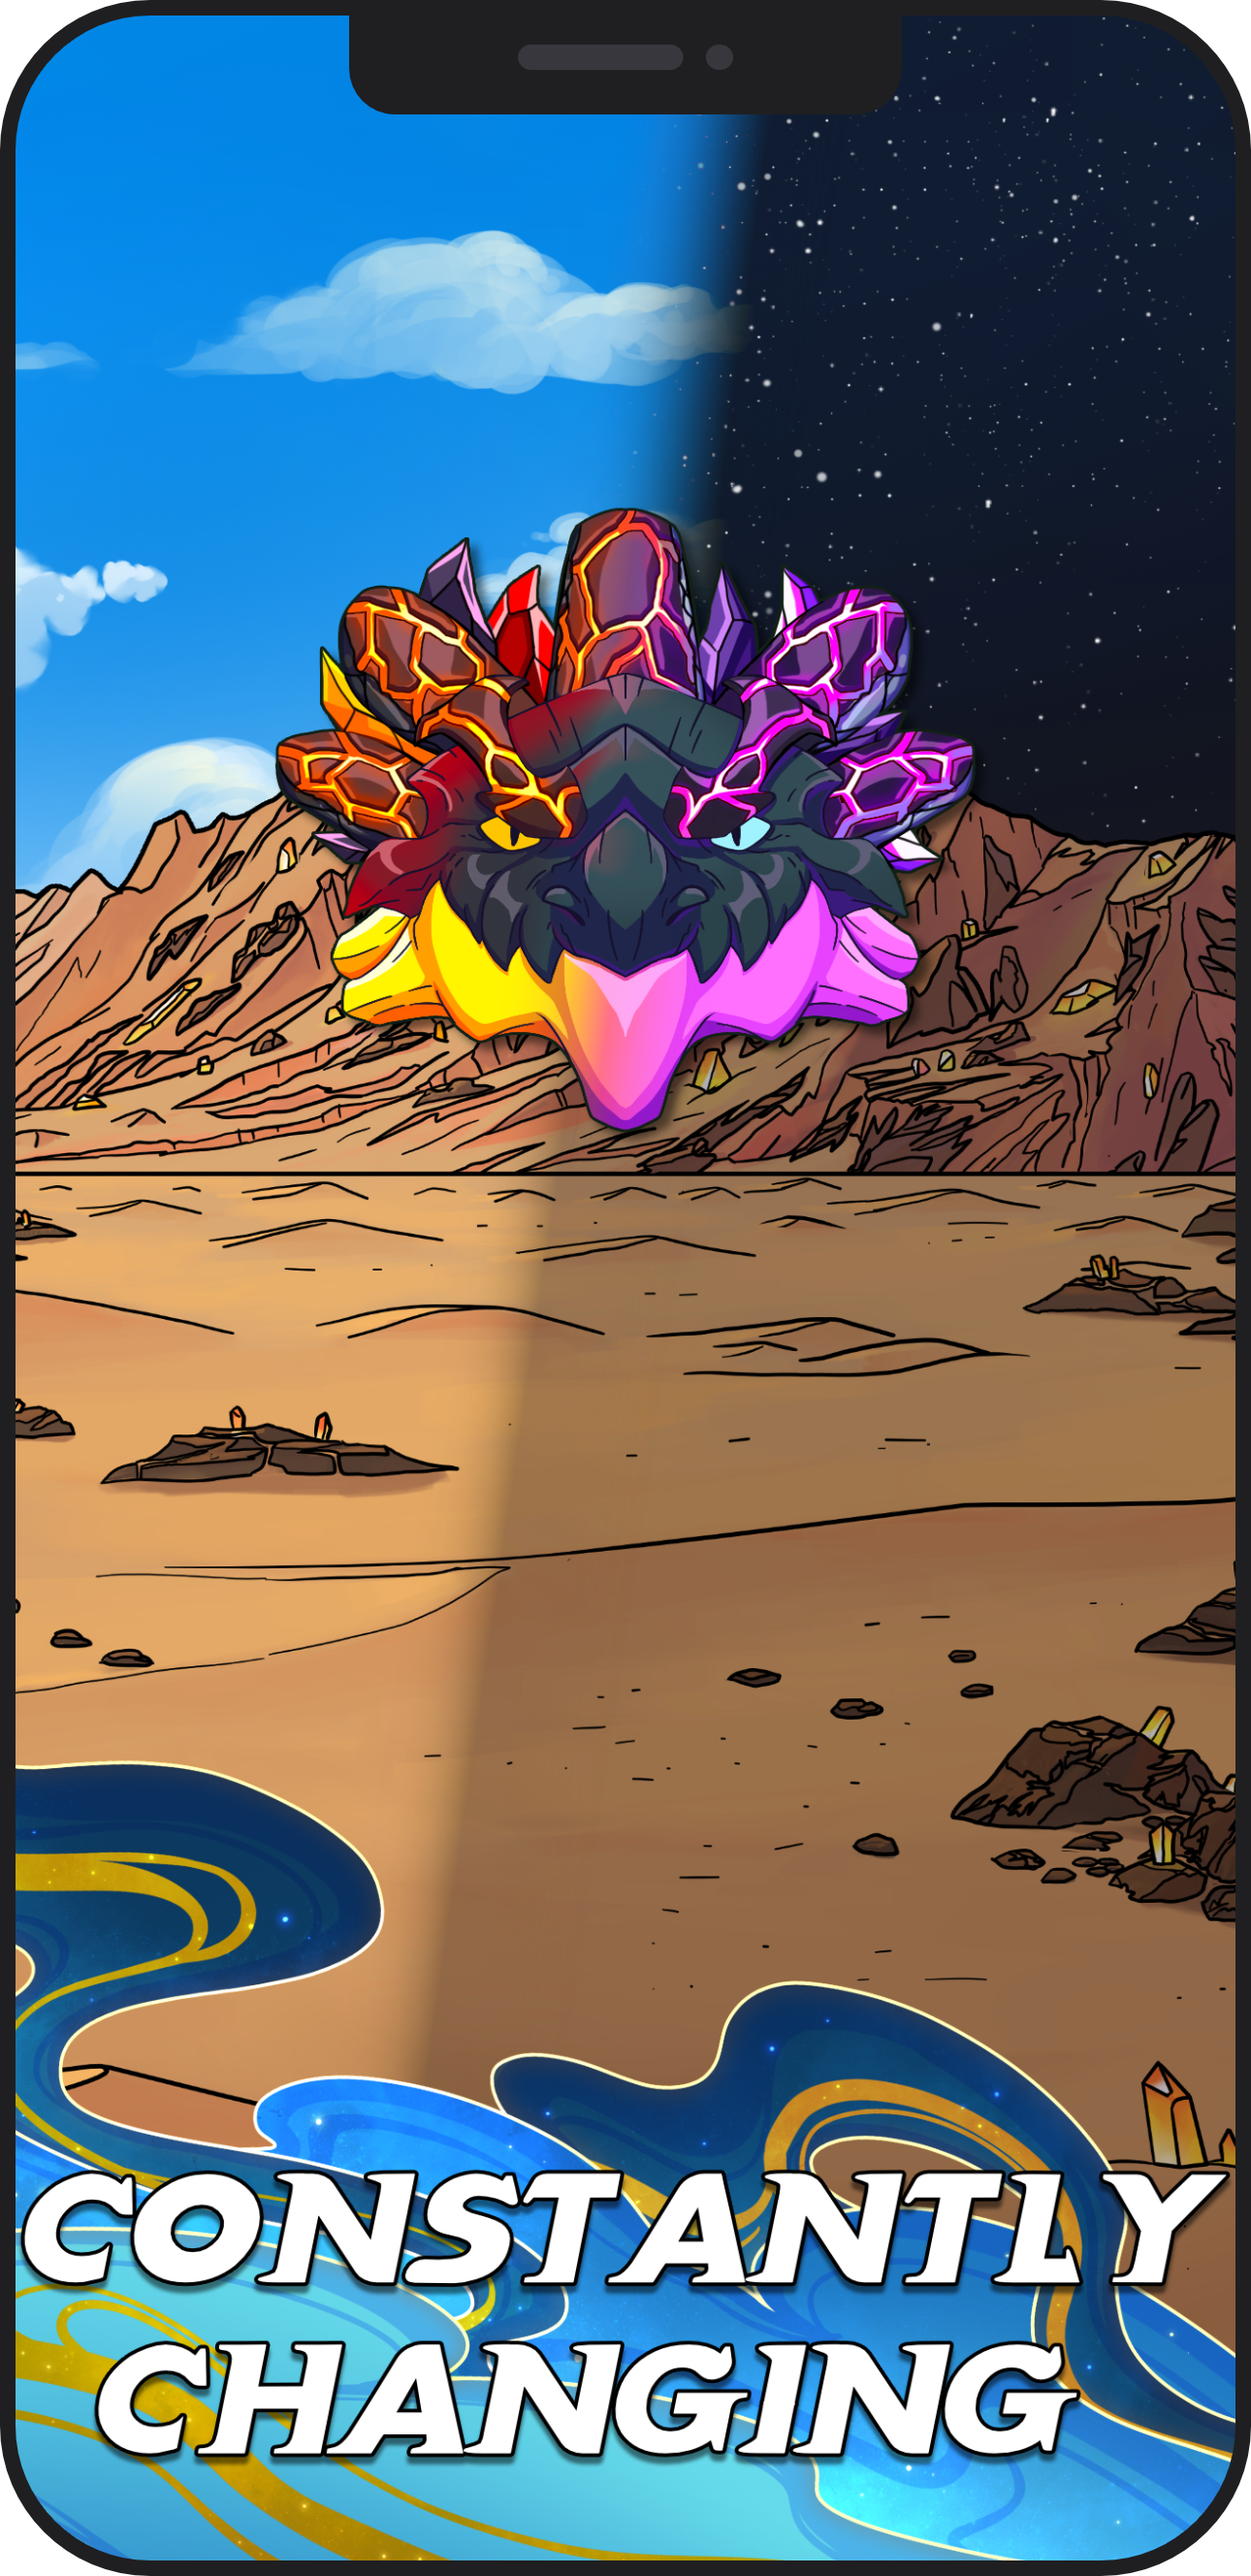
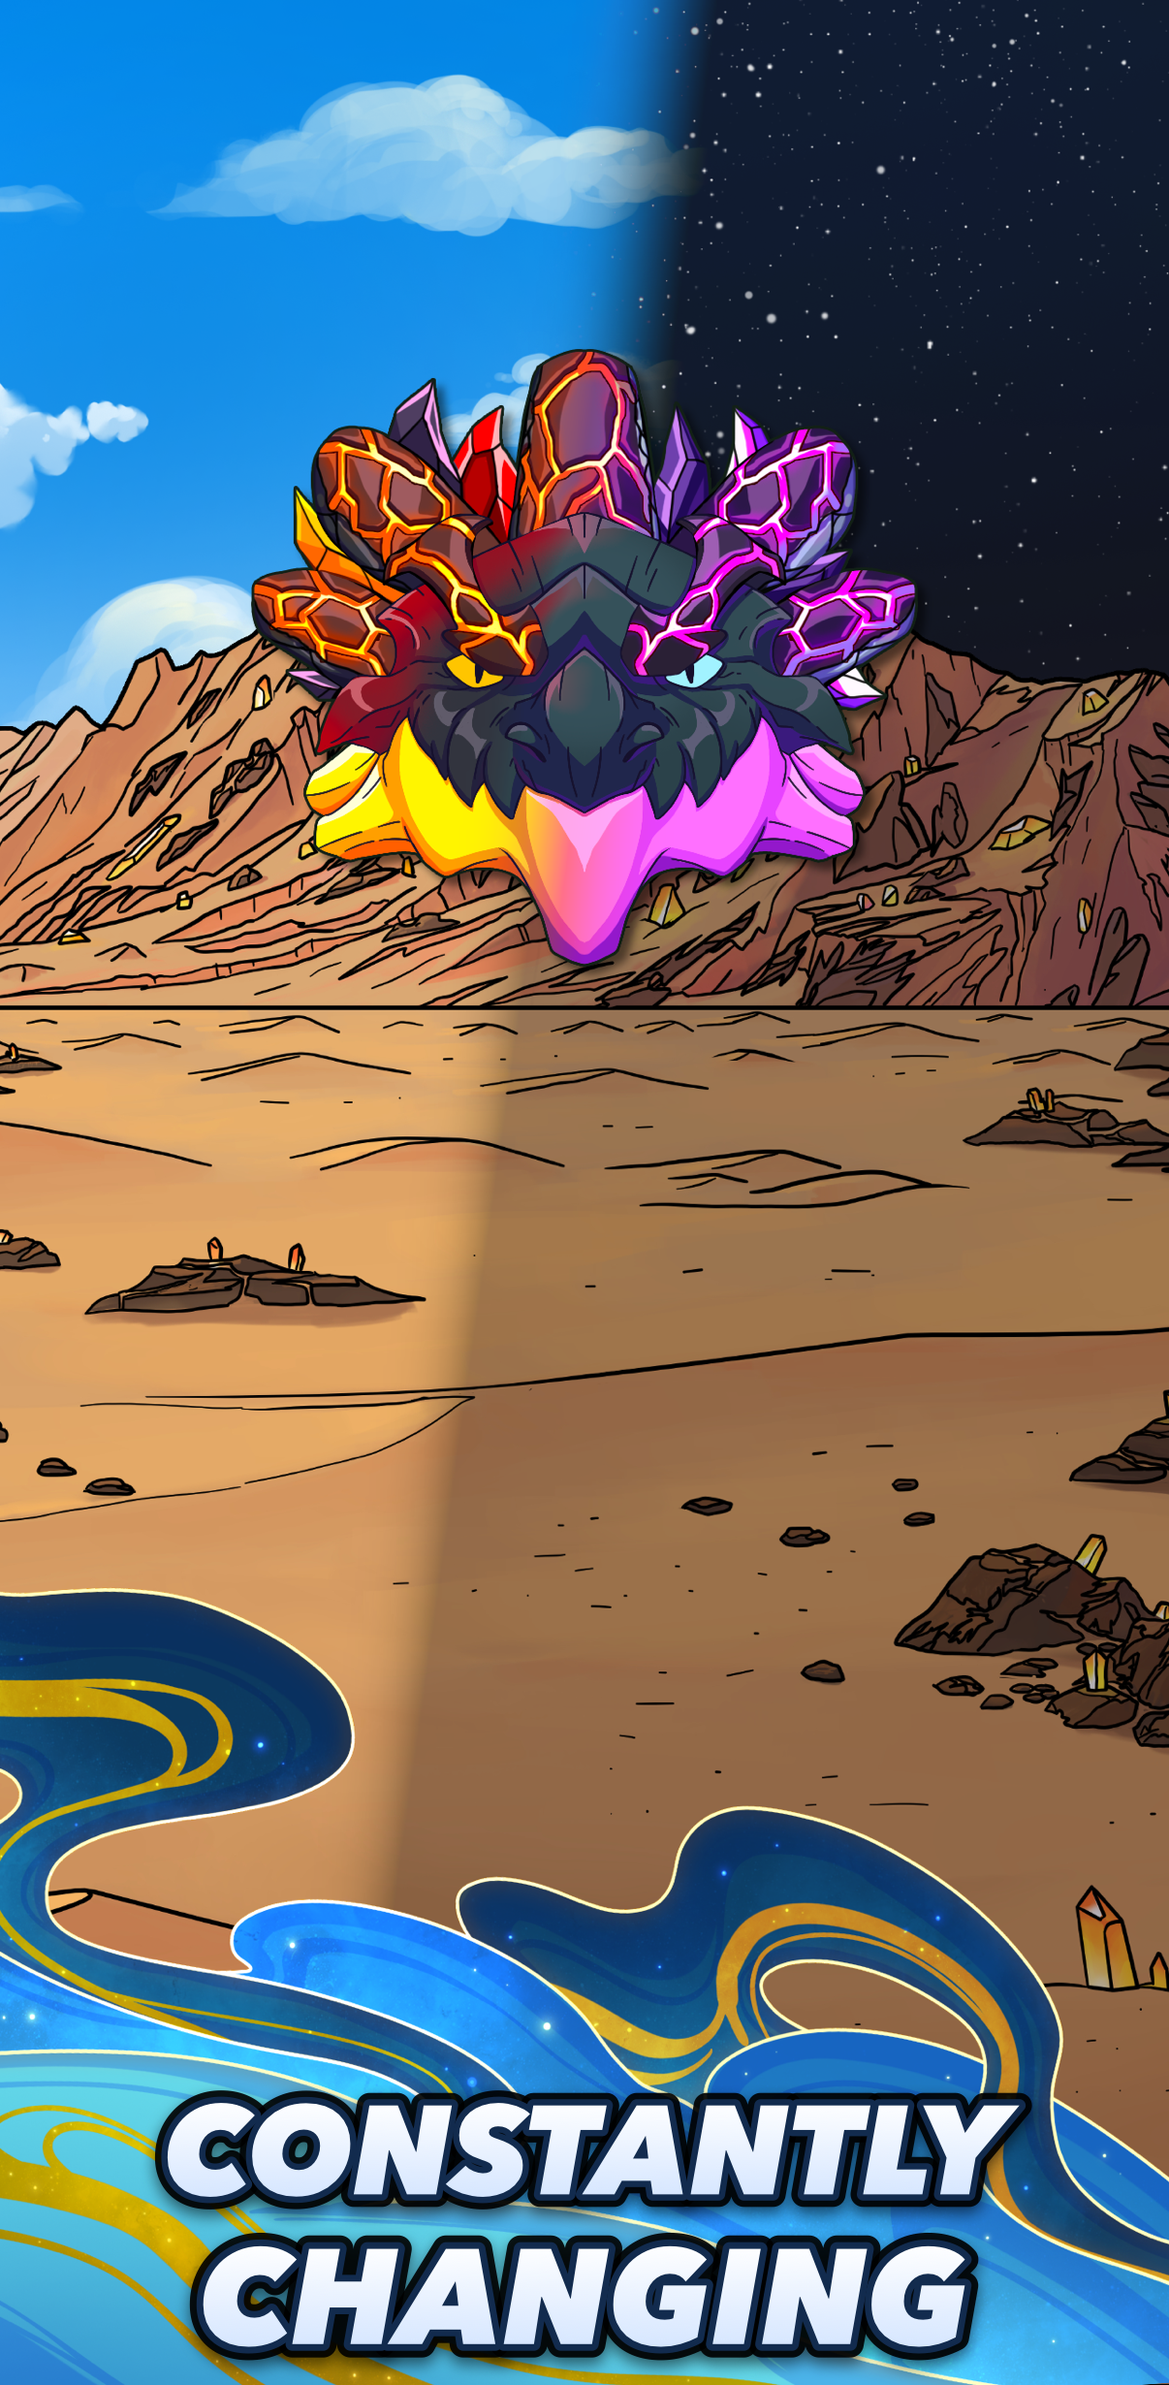
Add files via upload

diff --git a/index.html b/index.html
@@ -152,14 +152,12 @@
                     <div class="screenshot-carousel">
                         <div class="screenshot-container" id="ddScreens">
                             <img src="dd-1.png" alt="Delve Divers: battling a crystal golem boss" class="screenshot">
-                            <img src="dd-2.png" alt="Delve Divers screenshot" class="screenshot">
-                            <img src="dd-3.png" alt="Delve Divers screenshot" class="screenshot">
-                            <img src="dd-4.png" alt="Delve Divers screenshot" class="screenshot">
+                            <img src="dd-2.png" alt="Delve Divers: gearing up with artifacts" class="screenshot">
+                            <img src="dd-3.png" alt="Delve Divers: a constantly changing world" class="screenshot">
                         </div>
                     </div>
                     <div class="carousel-dots">
                         <span class="dot active"></span>
-                        <span class="dot"></span>
                         <span class="dot"></span>
                         <span class="dot"></span>
                     </div>
